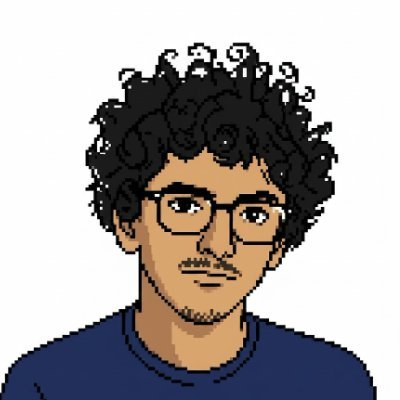
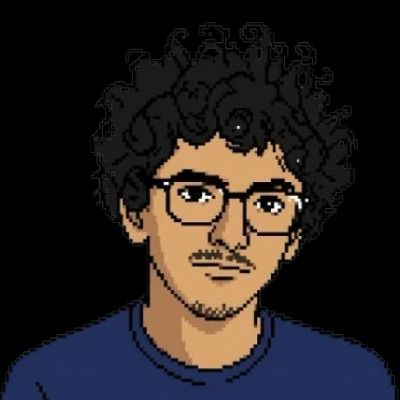
feat: add a real OG share image
Add a 1200x630 OG card (public/og.png) matching the site: dark
background with the intersection-rail grid, the avatar, name in Geist,
and the tagline with Callab AI (YC P26) styled like the site brand.
Wire og:image/twitter:image to it, switch to summary_large_image, and
fix the stale og:url. Also refresh the avatar image and keep the card
generator in scripts/build-og.mjs.

diff --git a/index.html b/index.html
@@ -16,10 +16,16 @@
       property="og:description"
       content="Software engineer at Callab AI (YC P26) building AI voice agents. GSoC'25 @NRNB. INSAT student in Tunis."
     />
-    <meta property="og:url" content="https://www.kacem-mathlouthi.tn/" />
-    <meta property="og:image" content="https://www.kacem-mathlouthi.tn/avatar.jpg" />
-    <meta name="twitter:card" content="summary" />
-    <meta name="twitter:image" content="https://www.kacem-mathlouthi.tn/avatar.jpg" />
+    <meta property="og:url" content="https://kacemmathlouthi.dev/" />
+    <meta property="og:image" content="https://kacemmathlouthi.dev/og.png" />
+    <meta property="og:image:width" content="1200" />
+    <meta property="og:image:height" content="630" />
+    <meta
+      property="og:image:alt"
+      content="Kacem Mathlouthi — building at Callab AI (YC P26), software engineering student at INSAT."
+    />
+    <meta name="twitter:card" content="summary_large_image" />
+    <meta name="twitter:image" content="https://kacemmathlouthi.dev/og.png" />
     <meta name="twitter:title" content="Kacem Mathlouthi" />
     <meta
       name="twitter:description"
